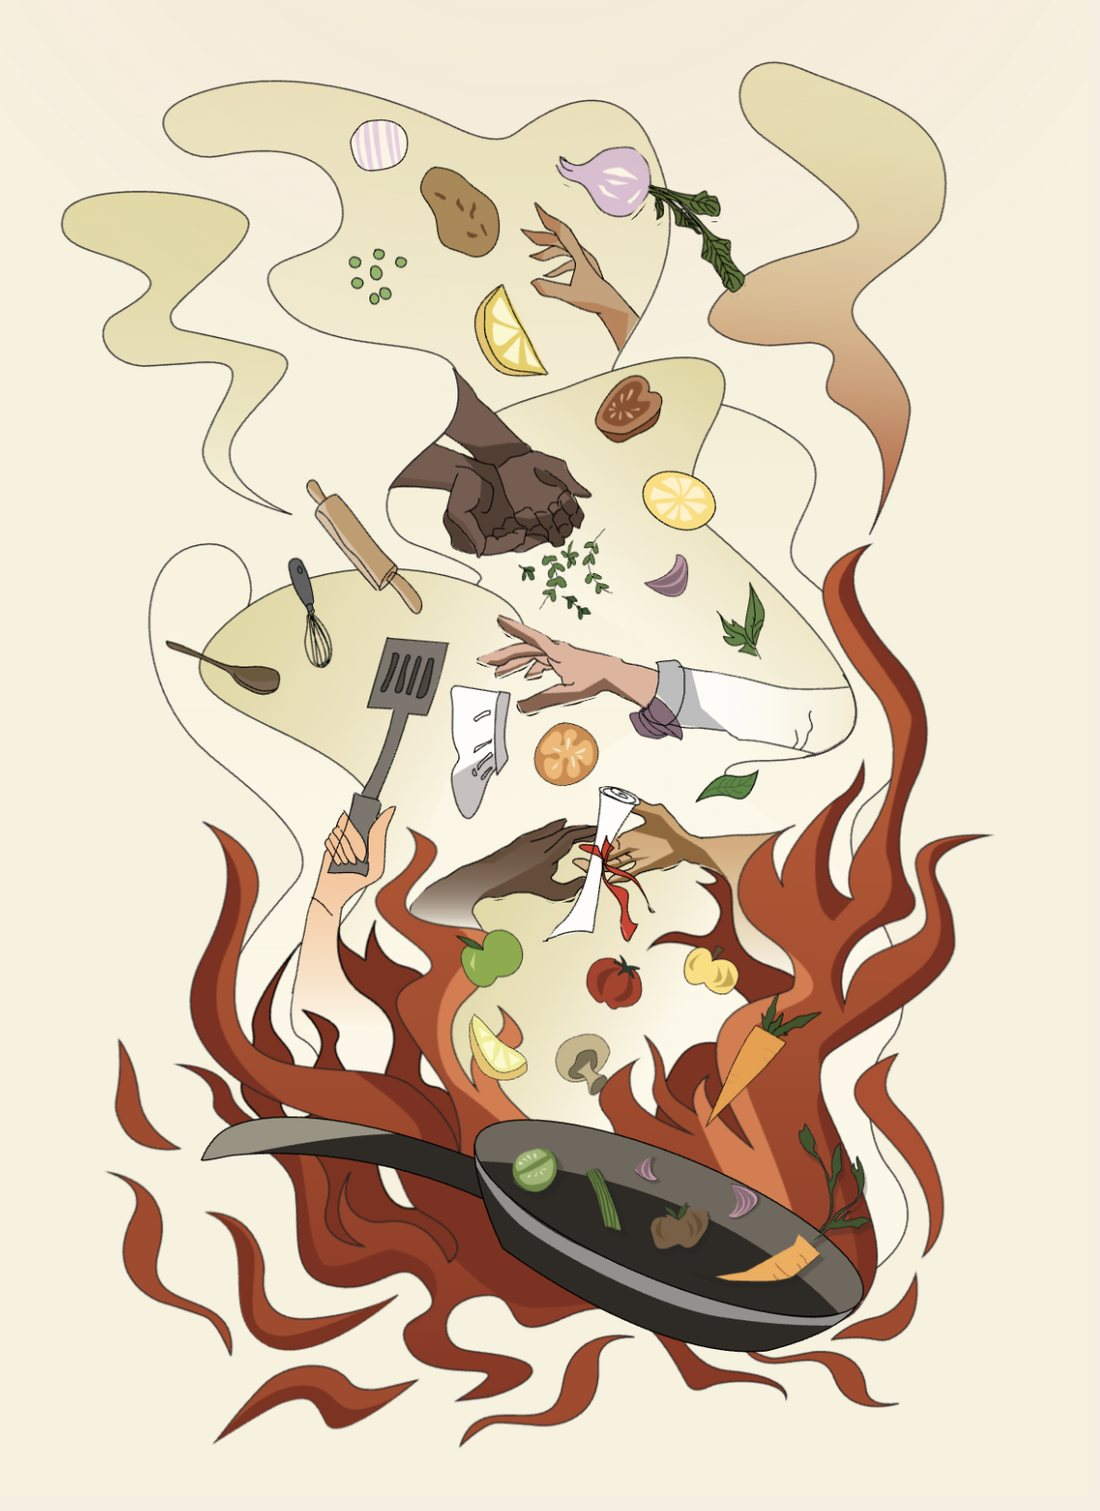
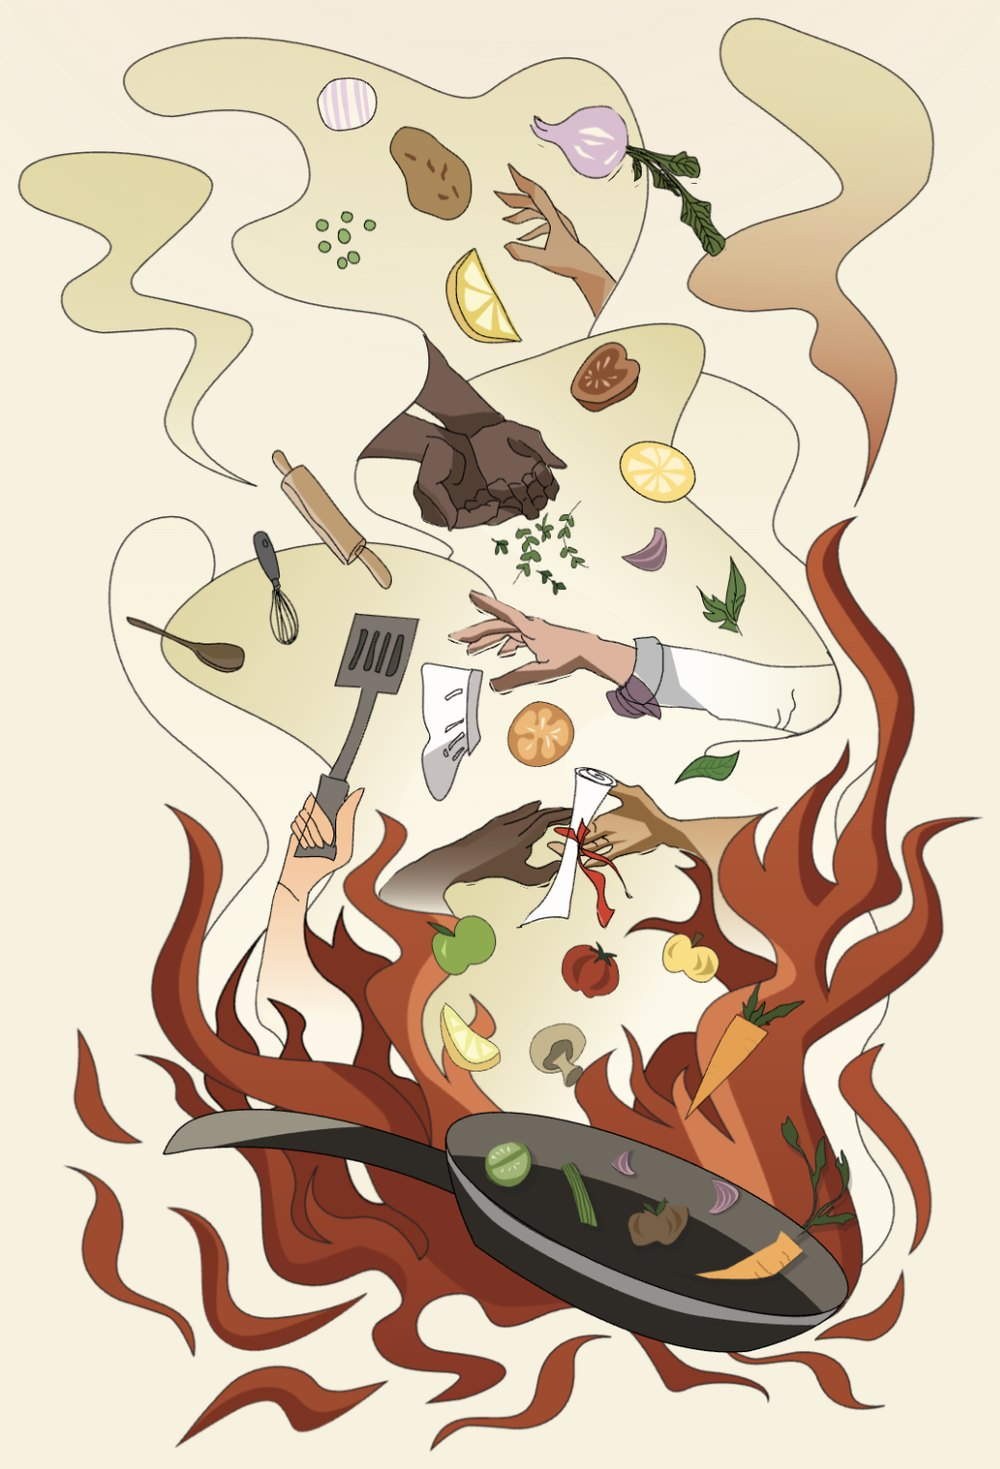
Embed interactive KFG mural in a mini browser window; trim mural margins so it shows larger
Claude-Session: https://claude.ai/code/session_013BtS4B1J37Kv8vcnDqLeFd

diff --git a/src/App.tsx b/src/App.tsx
@@ -42,6 +42,7 @@ const projects = [
       role: 'UI/UX Designer · Team: Royce Li (PM), Erin Law & Shiyo Ohashi (Visual Design), mentored by Leith Fava',
       carouselBg: '#f7f0de',
       prototypeLabel: 'Interactive Mural',
+      embedUrl: 'https://kfg-mural.vercel.app/',
       statsLabel: 'What We Heard',
       wideImages: false,
       images: ['/KFG_MURAL.jpg', '/KFG_PROCESS.jpg', '/KFG_SITE.jpg', '/KFG_SITE2.jpg'],
@@ -239,6 +240,36 @@ function FramedLine({ top, bottom, framed, children }: { top: number, bottom: nu
       <div style={{ position: 'relative' }} onMouseEnter={() => setHovered(true)} onMouseLeave={() => setHovered(false)}>
         {children}
         <SelectionBox label="p" visible={framed && hovered} inset={`-4px -${FRAME_X}px`} />
+      </div>
+    </div>
+  )
+}
+
+// A live website shown inside a mini browser window. The site renders at desktop size
+// and is scaled down to fit, so it looks (and hovers) like the real thing.
+function EmbeddedSite({ url }: { url: string }) {
+  const box = useRef<HTMLDivElement>(null)
+  const [w, setW] = useState(560)
+  const SITE_W = 1280, SITE_H = 800
+  useEffect(() => {
+    const el = box.current
+    if (!el) return
+    const ro = new ResizeObserver(() => setW(el.clientWidth))
+    ro.observe(el)
+    return () => ro.disconnect()
+  }, [])
+  const scale = w / SITE_W
+  const host = url.replace(/^https?:\/\//, '').replace(/\/$/, '')
+  return (
+    <div style={{ border: '1px solid #e6e6e6', borderRadius: 8, overflow: 'hidden', background: '#fff', boxShadow: '0 2px 12px rgba(0,0,0,0.05)' }}>
+      <div style={{ display: 'flex', alignItems: 'center', gap: 6, padding: '7px 10px', borderBottom: '1px solid #eee', background: '#fafafa' }}>
+        {['#e7e2ee', '#e7e2ee', '#e7e2ee'].map((c, i) => <span key={i} style={{ width: 8, height: 8, borderRadius: '50%', background: c }} />)}
+        <span style={{ flex: 1, margin: '0 8px', fontSize: 10, fontFamily: 'monospace', color: '#999', background: '#fff', border: '1px solid #eee', borderRadius: 4, padding: '2px 8px', overflow: 'hidden', textOverflow: 'ellipsis', whiteSpace: 'nowrap' }}>{host}</span>
+        <a href={url} target="_blank" rel="noopener noreferrer" style={{ fontSize: 10, fontFamily: 'monospace', color: INK, textDecoration: 'none' }}>open ↗</a>
+      </div>
+      <div ref={box} style={{ position: 'relative', width: '100%', height: SITE_H * scale, overflow: 'hidden' }}>
+        <iframe src={url} title={host} loading="lazy"
+          style={{ position: 'absolute', top: 0, left: 0, width: SITE_W, height: SITE_H, border: 0, transform: `scale(${scale})`, transformOrigin: 'top left' }} />
       </div>
     </div>
   )
@@ -732,6 +763,15 @@ function App() {
 
                   <p style={{ fontSize: 9, letterSpacing: '0.12em', color: '#bbb', textTransform: 'uppercase', fontFamily: 'monospace', margin: '0 0 8px' }}>{activeProject.caseStudy.wideImages ? 'What I Built' : 'Our Solution'}</p>
                   <p style={{ fontSize: 16, lineHeight: 1.8, color: '#666', fontFamily: 'Inria Serif, serif', margin: '0 0 28px' }}>{activeProject.caseStudy.solution}</p>
+
+                  {(activeProject.caseStudy as { embedUrl?: string }).embedUrl && (
+                    <>
+                      <p style={{ fontSize: 9, letterSpacing: '0.12em', color: '#bbb', textTransform: 'uppercase', fontFamily: 'monospace', margin: '0 0 10px' }}>Try It · scroll and hover to explore</p>
+                      <div style={{ marginBottom: 28 }}>
+                        <EmbeddedSite url={(activeProject.caseStudy as { embedUrl?: string }).embedUrl!} />
+                      </div>
+                    </>
+                  )}
 
                   {activeProject.caseStudy.features.length > 0 && (
                     <>
